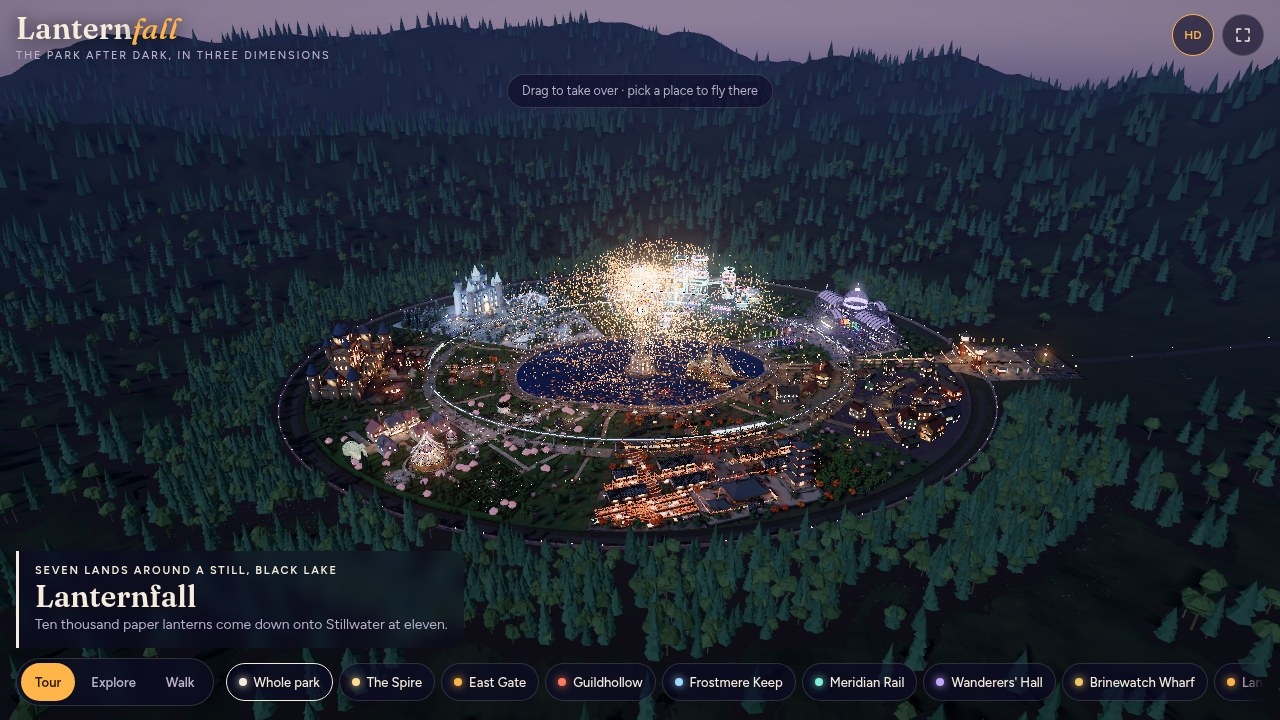
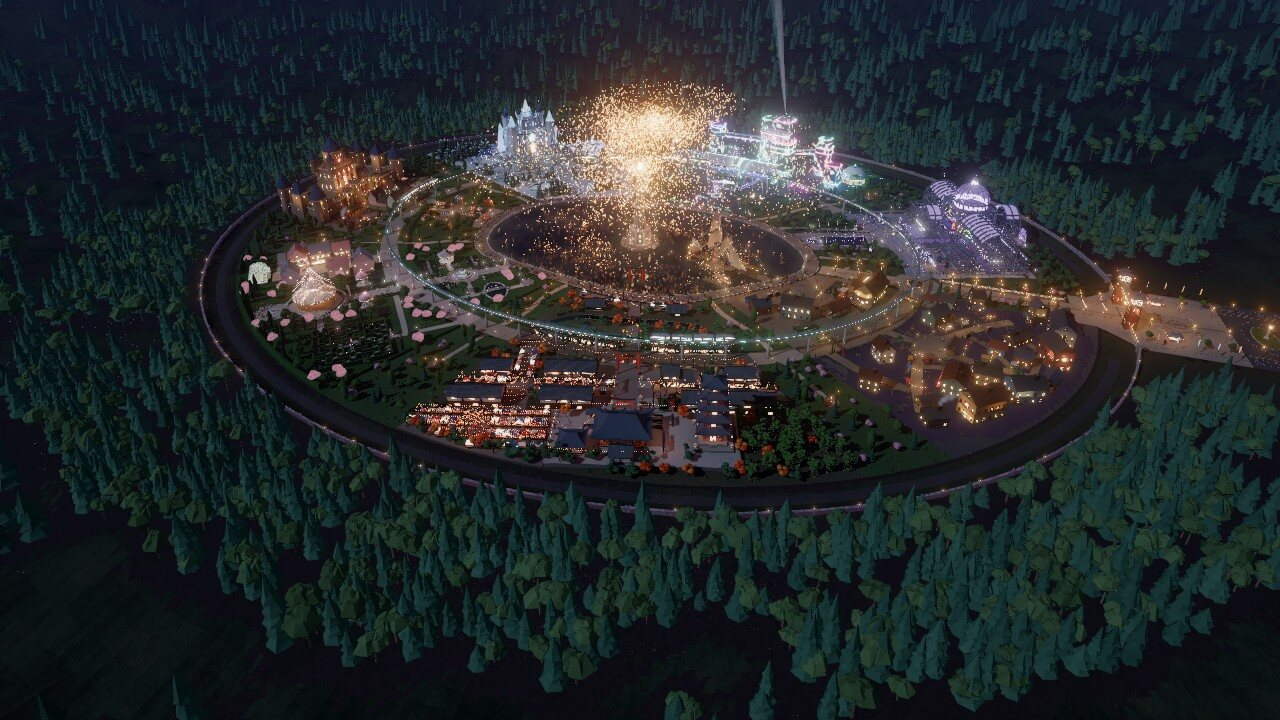
Cinematic (AO, mip bloom, SMAA) is the default picture on computers, HD on phones; fresh README and social screenshots with the new surfaces
Claude-Session: https://claude.ai/code/session_011GKqgE6vmJGKPTazZDGxXN

diff --git a/app.js b/app.js
@@ -77,11 +77,11 @@ Object.assign(Q, { waterMirror: mobile ? 1 : 2, waterMirrorLow: 1, mirrorScale: 
   mirrorEveryLow: 1, mirrorScaleLow: mobile ? 0.5 : 0.4, waterSim: HASH.has('nosim') ? 0 : mobile ? 1 : 2, waterSimHz: mobile ? 30 : 60, waterGloss: mobile ? 3 : 5, waterTap: true, waterBoat: !HASH.has('noboat'), waterScanBudget: 250000, waterEnv: true, waterPools: true, waterEnvSize: mobile ? 256 : 512 });
 FX.fxConfig(Q, { mobile, reduceMotion });     // atmosphere / particle systems (fx/index.js) -> Q.fx
 for (const k of ['fireworks', 'mist', 'beams']) if (typeof PREFS[k] === 'boolean' && !HASH.has(k) && !HASH.has('no-' + k)) Q.fx[k] = PREFS[k];
-// picture quality: 'fast' (no post, DPR 1), 'hd' (bloom chain), 'cinematic' (fx/post.js chain: AO, mip bloom, SMAA).
+// picture quality: 'fast' (no bloom, DPR 1), 'hd' (bloom chain), 'cinematic' (fx/post.js chain: AO, mip bloom, SMAA).
 // A '#fx=' token in the URL wins over the saved choice.
 const hasFxToken = /(^|[#,&])fx=/.test(location.hash);
 Q.hdr = CAN.hdr;            // without float colour targets: no post chain, 8-bit water targets, no ripple simulation
-let quality = !Q.hdr ? 'fast' : hasFxToken ? (Q.post.preset === 'legacy' || Q.post.preset === 'off' ? 'hd' : 'cinematic') : (PREFS.quality || 'hd');
+let quality = !Q.hdr ? 'fast' : hasFxToken ? (Q.post.preset === 'legacy' || Q.post.preset === 'off' ? 'hd' : 'cinematic') : (PREFS.quality || (mobile ? 'hd' : 'cinematic'));   // Cinematic by default on desktop: same frame time, richer neon/glow (see the finish report)
 if (!hasFxToken && quality === 'cinematic') Q.post = readFx('#fx=hd');
 // HD cost is pixel-bound (half-float MSAA target + bloom), so cap the drawn pixels instead of trusting devicePixelRatio.
 function effDpr(w, h) { return Math.max(0.6, Math.min(Q.dpr, Math.sqrt(Q.maxPixels / Math.max(1, w * h)))); }

diff --git a/README.md b/README.md
@@ -23,6 +23,7 @@ every land, and at eleven ten thousand paper lanterns come down onto the water.
 
 `F` toggles full screen. The settings button (top right) has the picture quality (**Fast**, **HD**, **Cinematic**),
 switches for fireworks, lake mist and searchlights, and **Reduce motion** (also taken from the system setting).
+Cinematic is the default on computers, HD on phones.
 Choices are remembered in the browser. The page also lowers quality by itself if frames run slow.
 
 ## What moves
